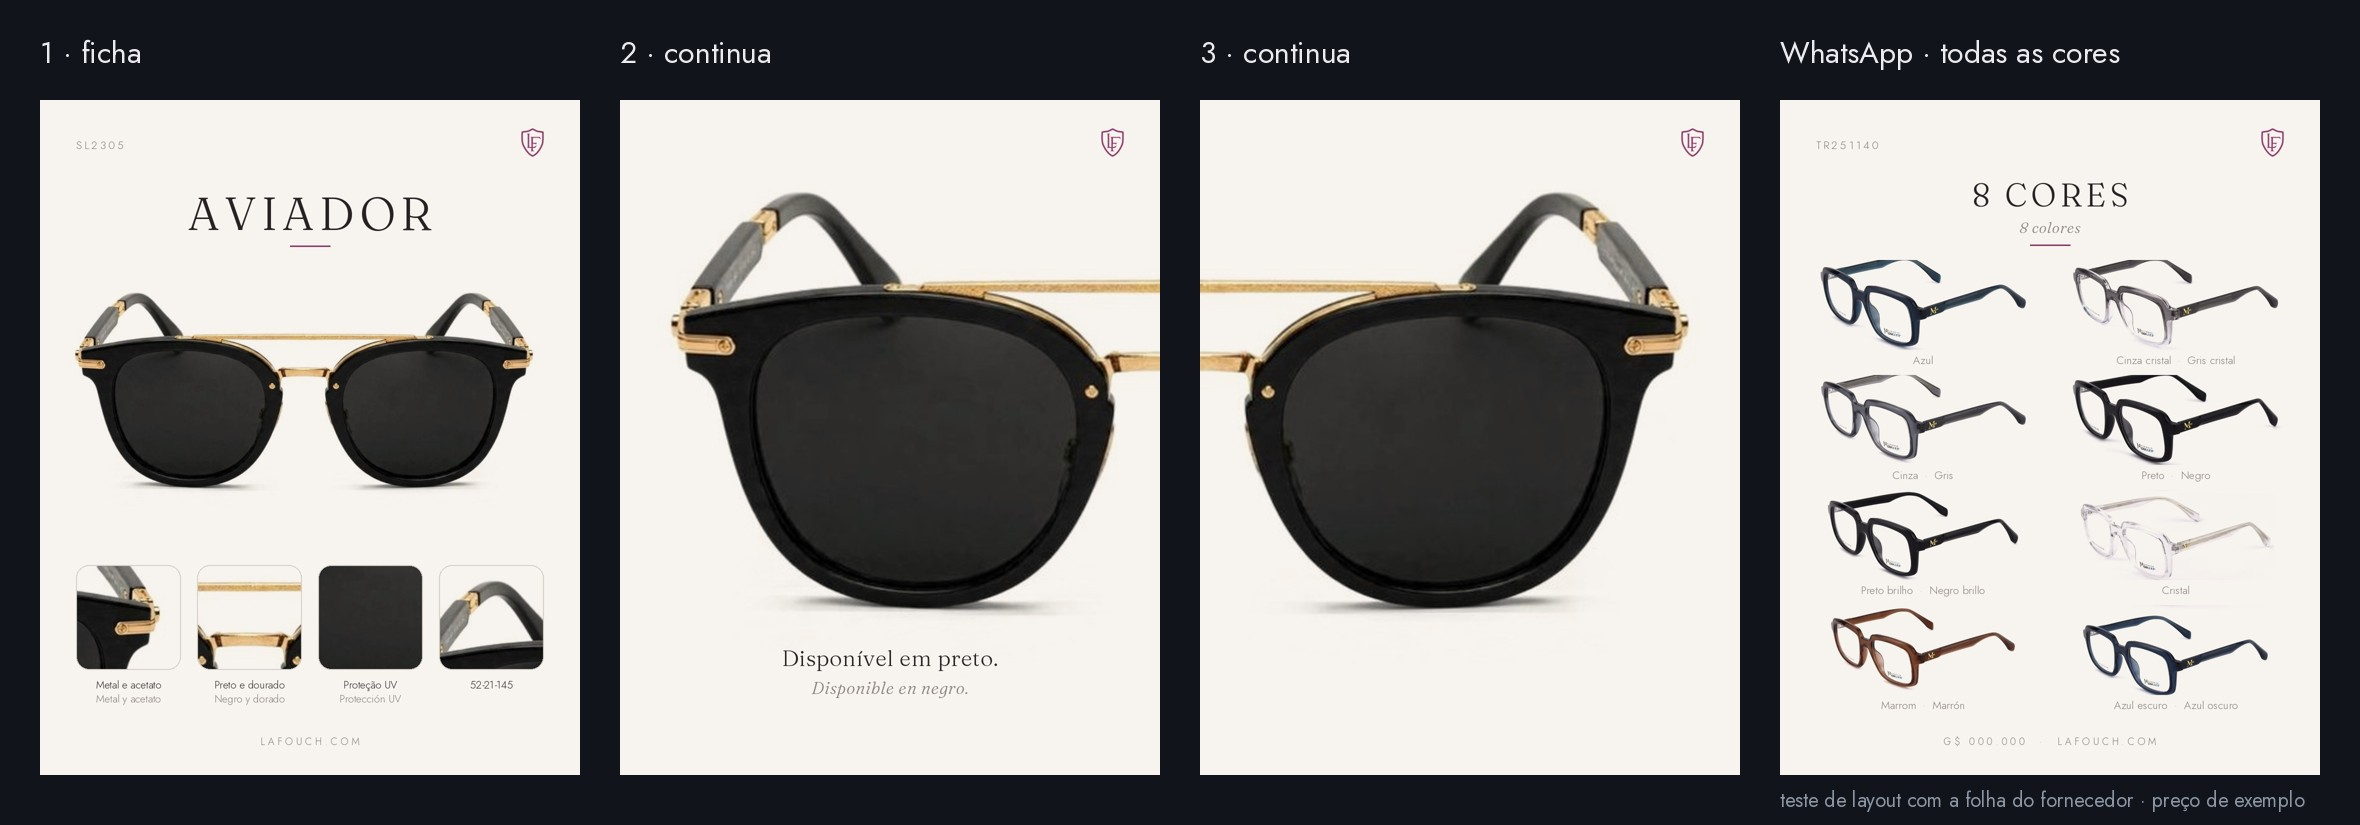
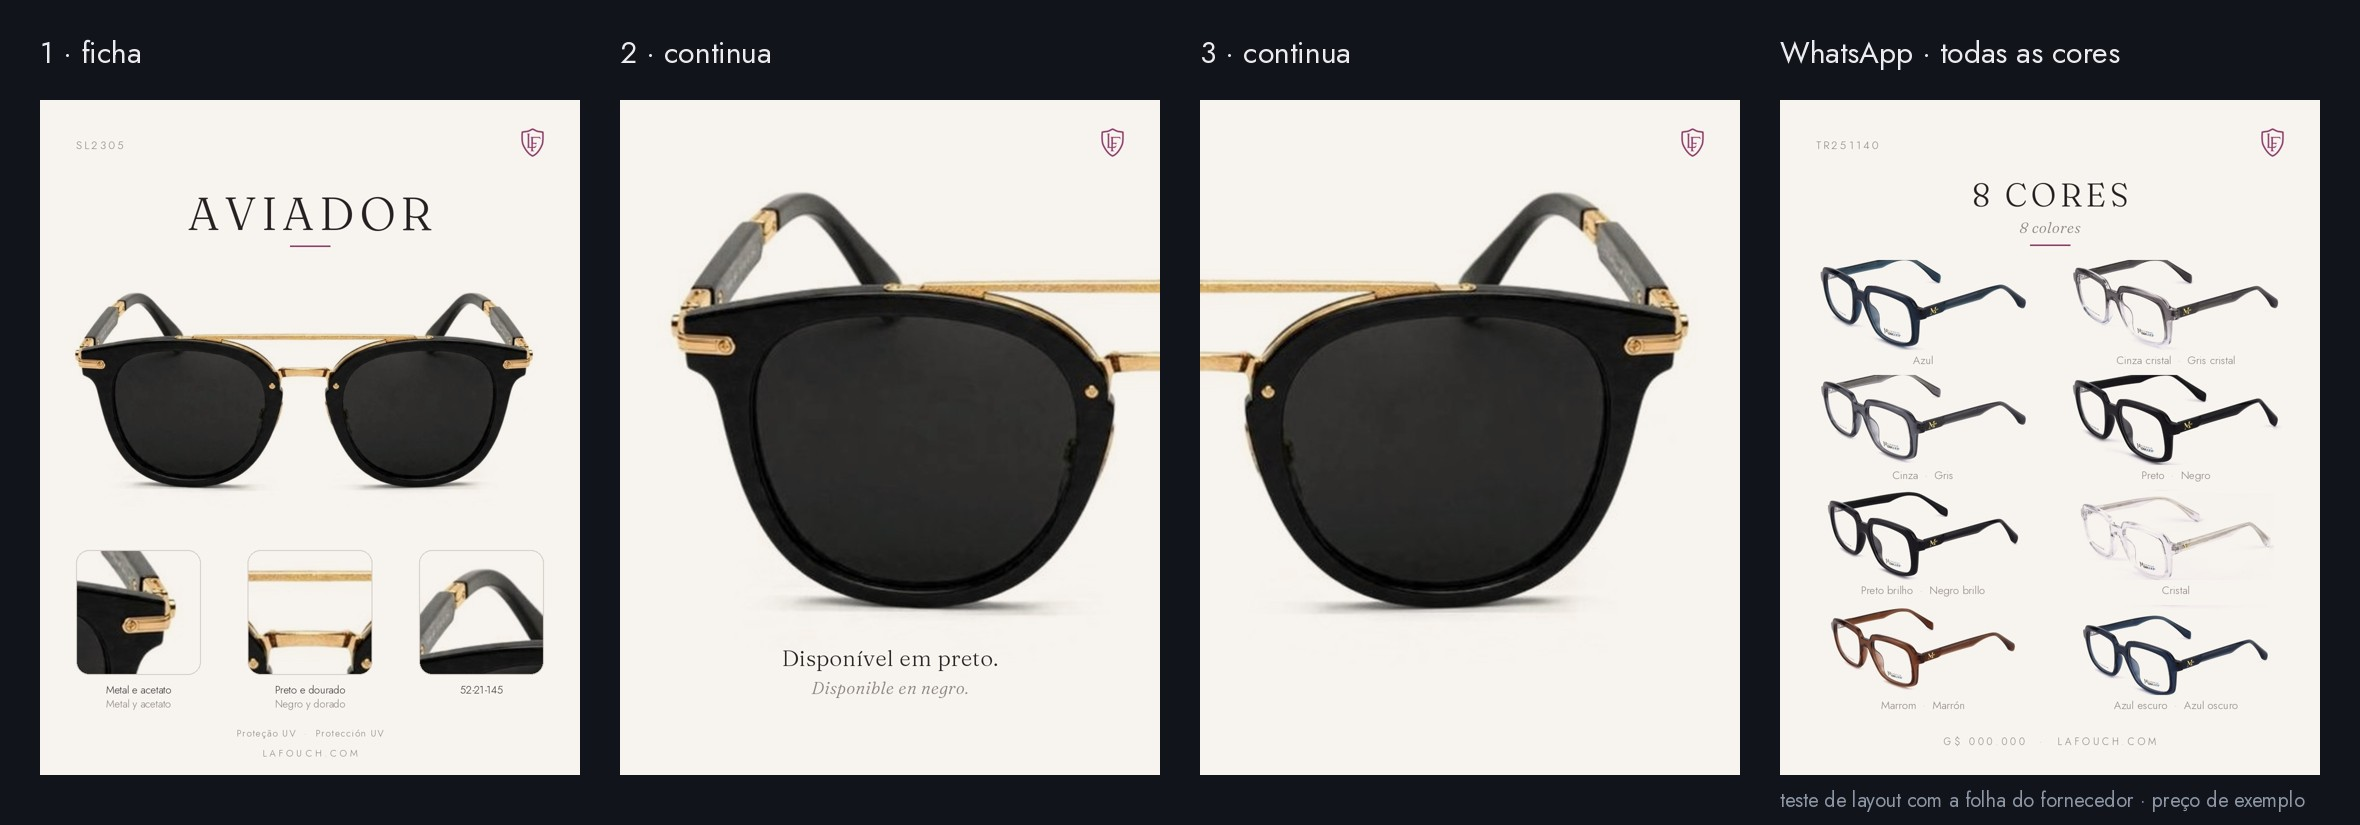
S435 esboço 76b: Proteção UV discreta, 3 detalhes

Changed region(s): [[0.0309, 0.6667, 0.2475, 0.9091]]

diff --git a/work/s435/semp/post/identidade.py b/work/s435/semp/post/identidade.py
@@ -27,14 +27,16 @@ def ficha():
   esp(d,(72,74),'SL2305',JO(22),MU,5,'l')
   esp(d,(W/2,170),'AVIADOR',FR(92),TX,10);d.line([(W/2-40,292),(W/2+40,292)],fill=VI,width=3)
   c=no_fundo(FOTO.crop((50,80,870,480)));p=c.resize((960,int(960*c.height/c.width)),Image.LANCZOS);b.paste(p,(60,345))
-  boxes=[(745,165,865,285),(390,165,510,285),(190,245,350,405),(95,95,225,225)]
-  legs=[('Metal e acetato','Metal y acetato'),('Preto e dourado','Negro y dorado'),('Proteção UV','Protección UV'),('52-21-145','52-21-145')]
-  lado=210;g=(W-2*72-4*lado)//3;y=930
+  boxes=[(745,165,865,285),(390,165,510,285),(95,95,225,225)]
+  legs=[('Metal e acetato','Metal y acetato'),('Preto e dourado','Negro y dorado'),('52-21-145','52-21-145')]
+  lado=250;g=(W-2*72-3*lado)//2;y=900
+  # dono 17:45: 'Proteção UV' mais discreto → sai do quadrinho (era um quadrado preto da lente) e vira uma linha pequena
+  esp(d,(W/2,1252),'Proteção UV  ·  Protección UV',JO(19),MU,2)
   for k,(bx,(pt,es)) in enumerate(zip(boxes,legs)):
     x=72+k*(lado+g);cr=no_fundo(FOTO.crop(bx)).resize((lado,lado),Image.LANCZOS);m=Image.new('L',(lado,lado),0);ImageDraw.Draw(m).rounded_rectangle([0,0,lado-1,lado-1],26,fill=255)
     b.paste(cr,(x,y),m);d.rounded_rectangle([x,y,x+lado-1,y+lado-1],26,outline=LN,width=2)
     for j,(t,cor) in enumerate(((pt,TX),(es,MU)) if es!=pt else ((pt,TX),)):f=JO(21);tw=d.textlength(t,font=f);d.text((x+lado/2-tw/2,y+lado+14+j*28),t,font=f,fill=cor)
-  esp(d,(W/2,1268),'LAFOUCH.COM',JO(20),MU,6);return b
+  esp(d,(W/2,1292),'LAFOUCH.COM',JO(19),MU,6);return b
 def panorama():
   P=Image.new('RGB',(2*W,H),BG);big=no_fundo(FOTO).resize((2250,1500),Image.LANCZOS);P.paste(big,(int(W-big.width/2),int(H*.48-big.height/2)))
   d=ImageDraw.Draw(P);esp(d,(W/2,H-262),'Disponível em preto.',FR(44),TX,1);esp(d,(W/2,H-196),'Disponible en negro.',FR(34,'300i'),MU,1)

diff --git a/docs/FALTA-APROVAR-15-11.md b/docs/FALTA-APROVAR-15-11.md
@@ -1171,3 +1171,4 @@ Não são esquecimento (estavam na lista, parados de propósito ou por ordem do 
 - 22/11 17:45 · ESBOCO: esboço 76 enviado — post FICHA (cabeçalho fino LA FOUCH ——— ÓCULOS, AVIADOR serifado, foto grande, 4 detalhes recortados com legendas do cadastro: Metal e acetato · Preto e dourado · Proteção UV · 52-21-145, logo) + carrossel com PANORAMA (a foto continua da imagem 2 para a 3, "Disponível em preto." + LAFOUCH.COM), da foto real do catálogo (SL2305), no estilo @made.glasses. Esperando o dono.
 - 22/11 17:39 · DONO: "sim" à direção do 76 (posts simples montados pelo app: ficha + carrossel/panorama), mas NÃO copiar a Madë inteira — é só inspiração; a LaFouch precisa de identidade própria. "Muito mais simples dessa forma."
 - 22/11 17:55 · ESBOCO: esboço 76b enviado — posts com IDENTIDADE LaFouch: escudo LF vinho no canto (no lugar do cabeçalho), código da peça no outro canto, nome serifado com traço vinho, fundo off-white quente (a foto de fundo branco assenta por multiplicação), legendas PT+ES do cadastro; ficha + panorama (SL2305) + MONTAGEM DE TODAS AS CORES para o WhatsApp (teste de layout com a folha TR251140 do fornecedor, preço de exemplo, não publicar). Esperando o dono.
+- 22/11 17:58 · DONO: "Proteção UV" precisa ser mais discreto → sai do quadrinho (era o recorte preto da lente) e vira uma linha pequena PT·ES no rodapé; a ficha fica com 3 detalhes maiores (Metal e acetato · Preto e dourado · 52-21-145).

diff --git a/docs/MEMORIA-PROJETO.md b/docs/MEMORIA-PROJETO.md
@@ -3670,3 +3670,4 @@ Testar TUDO, com muita calma, antes de dizer que está pronto ou de publicar: ca
 - 22/11 17:45 · ESBOCO: esboço 76 enviado — post FICHA (cabeçalho fino LA FOUCH ——— ÓCULOS, AVIADOR serifado, foto grande, 4 detalhes recortados com legendas do cadastro: Metal e acetato · Preto e dourado · Proteção UV · 52-21-145, logo) + carrossel com PANORAMA (a foto continua da imagem 2 para a 3, "Disponível em preto." + LAFOUCH.COM), da foto real do catálogo (SL2305), no estilo @made.glasses. Esperando o dono.
 - 22/11 17:39 · DONO: "sim" à direção do 76 (posts simples montados pelo app: ficha + carrossel/panorama), mas NÃO copiar a Madë inteira — é só inspiração; a LaFouch precisa de identidade própria. "Muito mais simples dessa forma."
 - 22/11 17:55 · ESBOCO: esboço 76b enviado — posts com IDENTIDADE LaFouch: escudo LF vinho no canto (no lugar do cabeçalho), código da peça no outro canto, nome serifado com traço vinho, fundo off-white quente (a foto de fundo branco assenta por multiplicação), legendas PT+ES do cadastro; ficha + panorama (SL2305) + MONTAGEM DE TODAS AS CORES para o WhatsApp (teste de layout com a folha TR251140 do fornecedor, preço de exemplo, não publicar). Esperando o dono.
+- 22/11 17:58 · DONO: "Proteção UV" precisa ser mais discreto → sai do quadrinho (era o recorte preto da lente) e vira uma linha pequena PT·ES no rodapé; a ficha fica com 3 detalhes maiores (Metal e acetato · Preto e dourado · 52-21-145).
